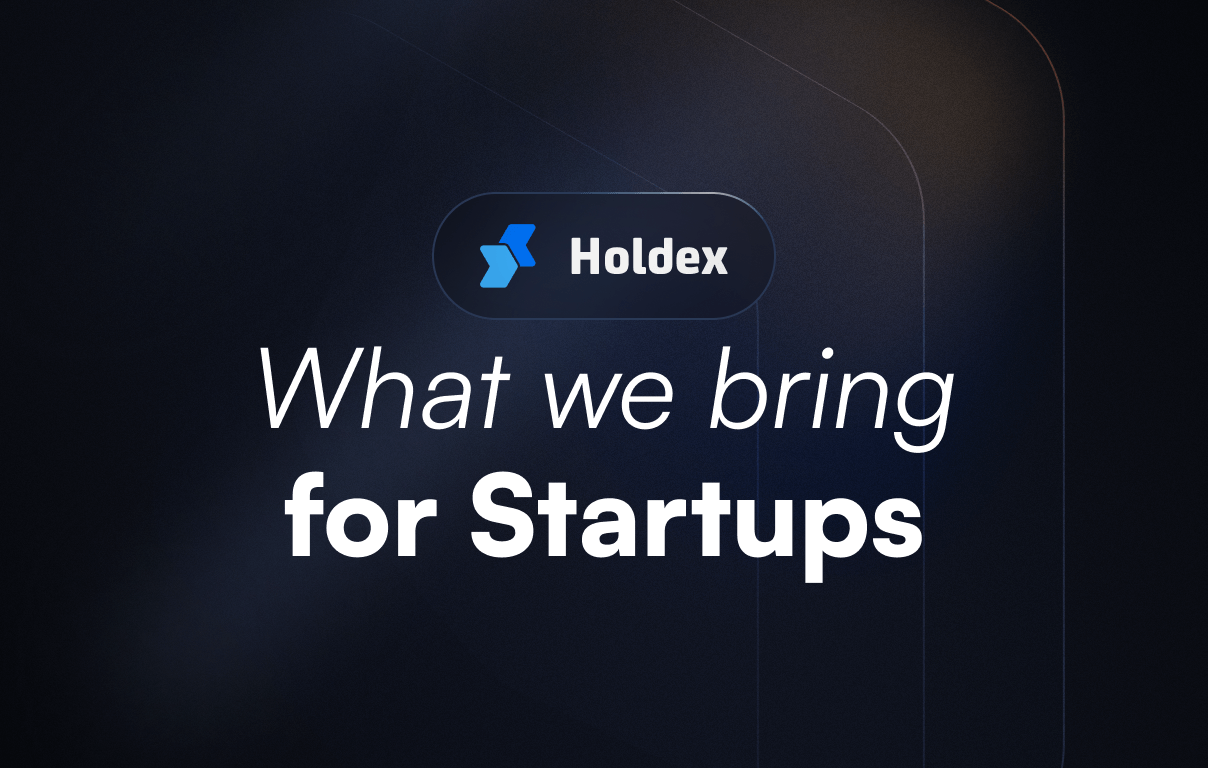
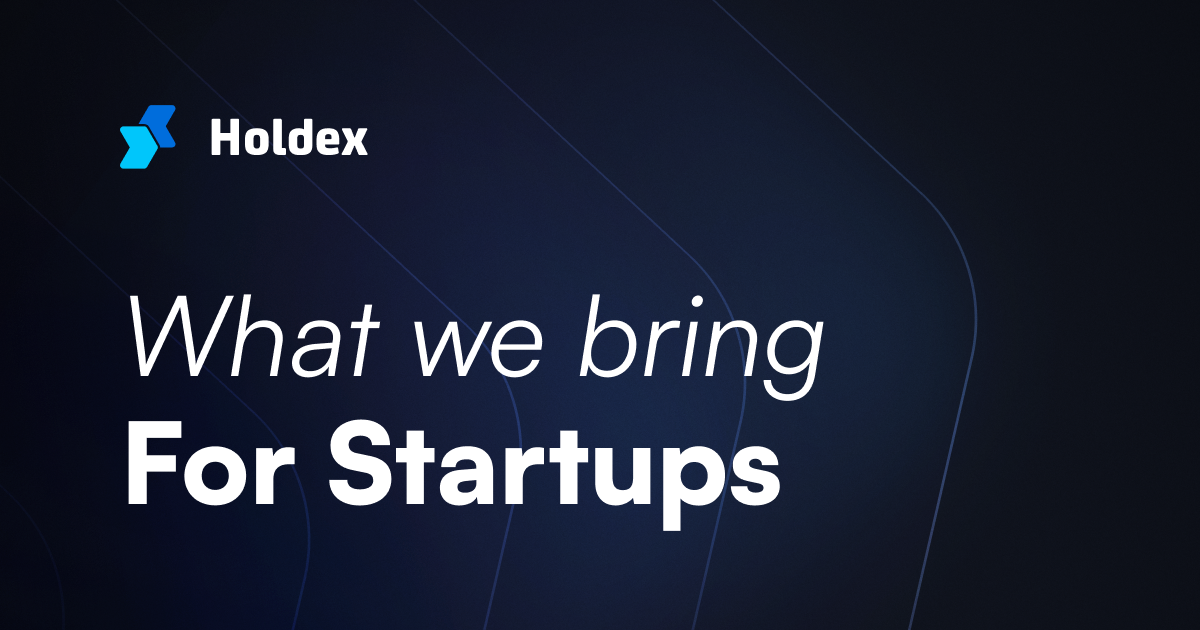
feat: view updated OG images for hardcoded pages (#730)
* feat: view updated OG images for hardcoded pages

* feat: update community cover image handling

diff --git a/src/lib/utils/index.ts b/src/lib/utils/index.ts
@@ -27,15 +27,18 @@ export const sanitizeHtml = (s: string) => insane(s, {}, true);
 
 export function parseCommunityCoverImage(community: Community): string {
   switch (community.slug) {
-    case 'announcements':
     case 'jobs':
+      return `/og/jobs.png`;
+    case 'announcements':
+      return `/og/announcements.png`;
     case 'learn':
+      return `/og/guides.png`;
     case 'case-studies':
-    case 'founders-club':
+      return `/og/case-studies.png`;
     case 'companies':
-      return `https://storage.googleapis.com/holdex-public/categories/${community.slug}.png`;
+      return `/og/portfolio.png`;
     default:
-      return community?.logoUrl;
+      return `/og/index.png`;
   }
 }
 
@@ -49,7 +52,7 @@ export const formatUrlToTitle = (url: string): string => {
       .replace('www.', '')
       .split('.')[0]
       .split('-')
-      .map(word => word.charAt(0).toUpperCase() + word.slice(1).toLowerCase())
+      .map((word) => word.charAt(0).toUpperCase() + word.slice(1).toLowerCase())
       .join(' ');
     return domain;
   } catch {

diff --git a/src/routes/(pages)/c/guides/+page.svelte b/src/routes/(pages)/c/guides/+page.svelte
@@ -92,7 +92,7 @@
   title="Research in Web3 created by Holdex Team"
   description="Product and business crypto guides for someone who truly understands the power of blockchain."
   path={routes.research}
-  imagePath="/og/index.png"
+  imagePath="/og/guides.png"
 />
 
 <template lang="pug" src="./template.pug">

diff --git a/src/routes/(pages)/c/[slug]/+page.svelte b/src/routes/(pages)/c/[slug]/+page.svelte
@@ -120,7 +120,7 @@
   title="{community.tagline} | Holdex"
   description={sanitizeHtml(community.tagline)}
   path={routes.category(community.slug)}
-  imageUrl={communityCover}
+  imagePath={communityCover}
   pageName={community.name}
 />
 

diff --git a/DESIGN.md b/DESIGN.md
@@ -1,11 +1,11 @@
 # Holdex Design Assets
 
 ## Website
+
 - [/index](https://www.figma.com/design/39MGGVIGQ1bL3FgVzuXEdC/Holdex?node-id=7355-63376&t=gg8CmTOHvTA9KGyC-4)
 - [/guides](https://www.figma.com/file/39MGGVIGQ1bL3FgVzuXEdC/Holdex?type=design&node-id=7017%3A51989&mode=design&t=t0tAdHirdZn2fo9l-1)
 
 ### [Navigation Revamp](https://www.figma.com/design/39MGGVIGQ1bL3FgVzuXEdC/Holdex?node-id=8378-79090&t=ROc6OA2JC5xZoRKI-1)
 
-
-
+## [OG Images](https://www.figma.com/design/FXeotZ08JBRH3cSfSucp9K/Holdex-Social-Media-Templates?node-id=90-211&t=VC2al9zPTqHEAZwS-1)
 
